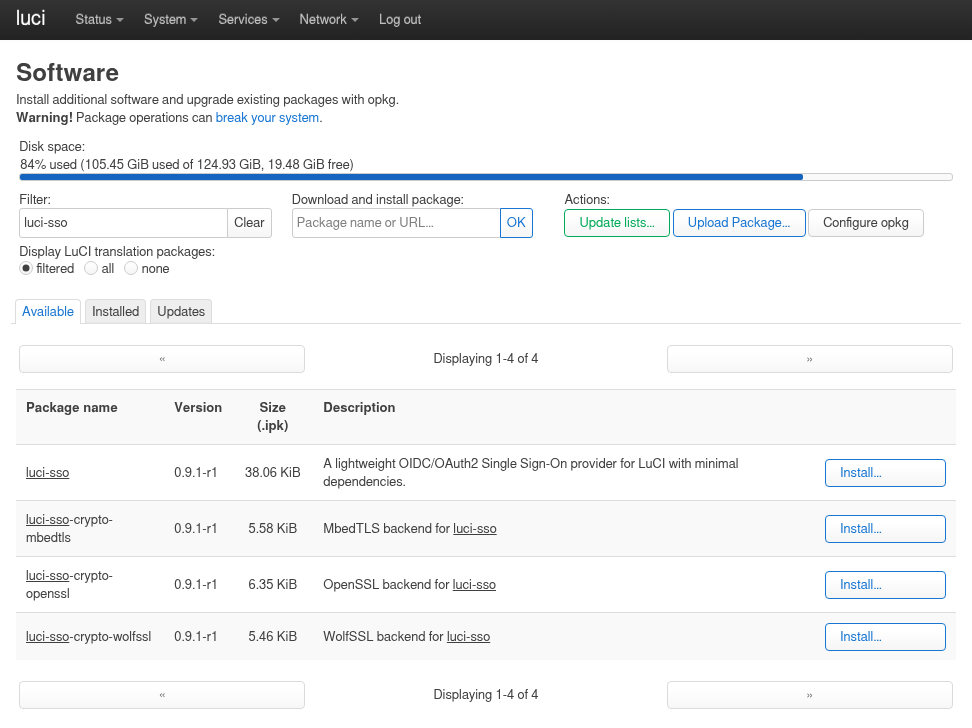
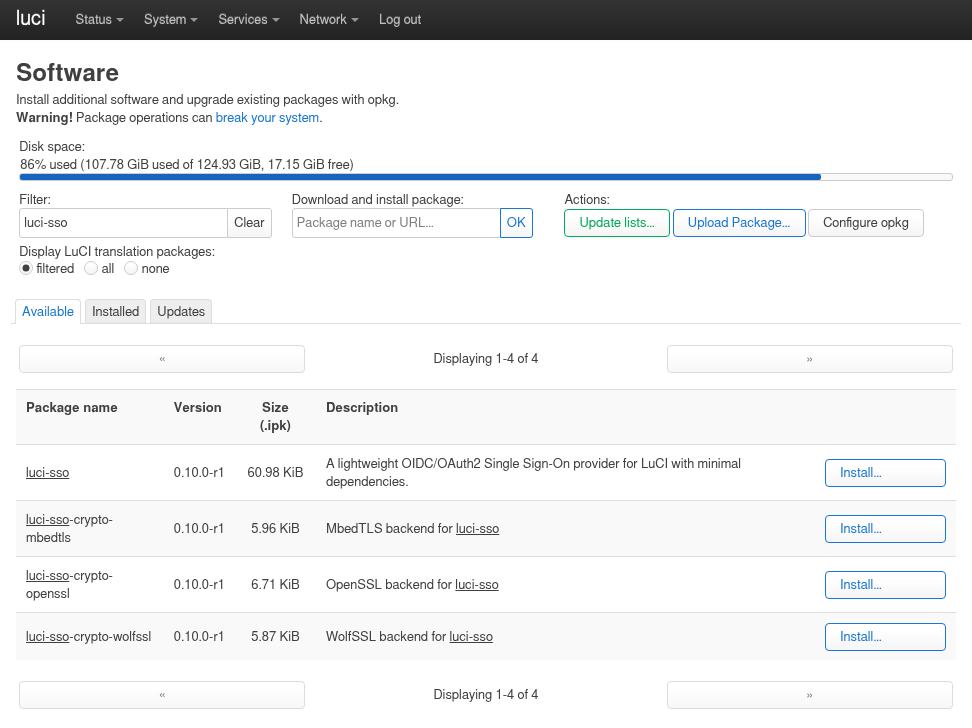
docs: retake the Software screenshots for 0.10.0

diff --git a/docs/how-to/sysadmin/installation.md b/docs/how-to/sysadmin/installation.md
@@ -87,7 +87,7 @@ Adding the feed's signing key needs a shell: LuCI's **Software** page can edit t
         2.  In the **Filter** box, type `luci-sso-crypto`, and click **Install…** next to the backend you chose (for example `luci-sso-crypto-mbedtls`).
         3.  Filter for `luci-sso` and click **Install…** next to `luci-sso`.
 
-        ![LuCI System > Software page on OpenWrt 24.10 with luci-sso typed in the Filter box and the Available tab selected. The table lists luci-sso, luci-sso-crypto-mbedtls, luci-sso-crypto-openssl and luci-sso-crypto-wolfssl, version 0.9.1-r1, each with an Install… button. Above the tabs, the Actions row has the Update lists…, Upload Package… and Configure opkg buttons.](../../assets/screenshots/luci-software-install.png "System > Software, Available tab, filtered for luci-sso")
+        ![LuCI System > Software page on OpenWrt 24.10 with luci-sso typed in the Filter box and the Available tab selected. The table lists luci-sso, luci-sso-crypto-mbedtls, luci-sso-crypto-openssl and luci-sso-crypto-wolfssl, version 0.10.0-r1, each with an Install… button. Above the tabs, the Actions row has the Update lists…, Upload Package… and Configure opkg buttons.](../../assets/screenshots/luci-software-install.png "System > Software, Available tab, filtered for luci-sso")
 
 ---
 

diff --git a/docs/how-to/sysadmin/uninstall.md b/docs/how-to/sysadmin/uninstall.md
@@ -49,7 +49,7 @@ The crypto backend is a separate package and has to be removed as well. `luci-ss
     4.  Click **Remove** next to `luci-sso`.
     5.  Click **Remove** next to your crypto backend (for example `luci-sso-crypto-mbedtls`).
 
-    ![LuCI System > Software page on OpenWrt 24.10 with luci-sso typed in the Filter box and the Installed tab selected. The table lists luci-sso and luci-sso-crypto-mbedtls, version 0.9.1-r1, each with a red Remove… button.](../../assets/screenshots/luci-software-uninstall.png "System > Software, Installed tab, filtered for luci-sso")
+    ![LuCI System > Software page on OpenWrt 24.10 with luci-sso typed in the Filter box and the Installed tab selected. The table lists luci-sso and luci-sso-crypto-mbedtls, version 0.10.0-r1, each with a red Remove… button.](../../assets/screenshots/luci-software-uninstall.png "System > Software, Installed tab, filtered for luci-sso")
 
 ---
 
